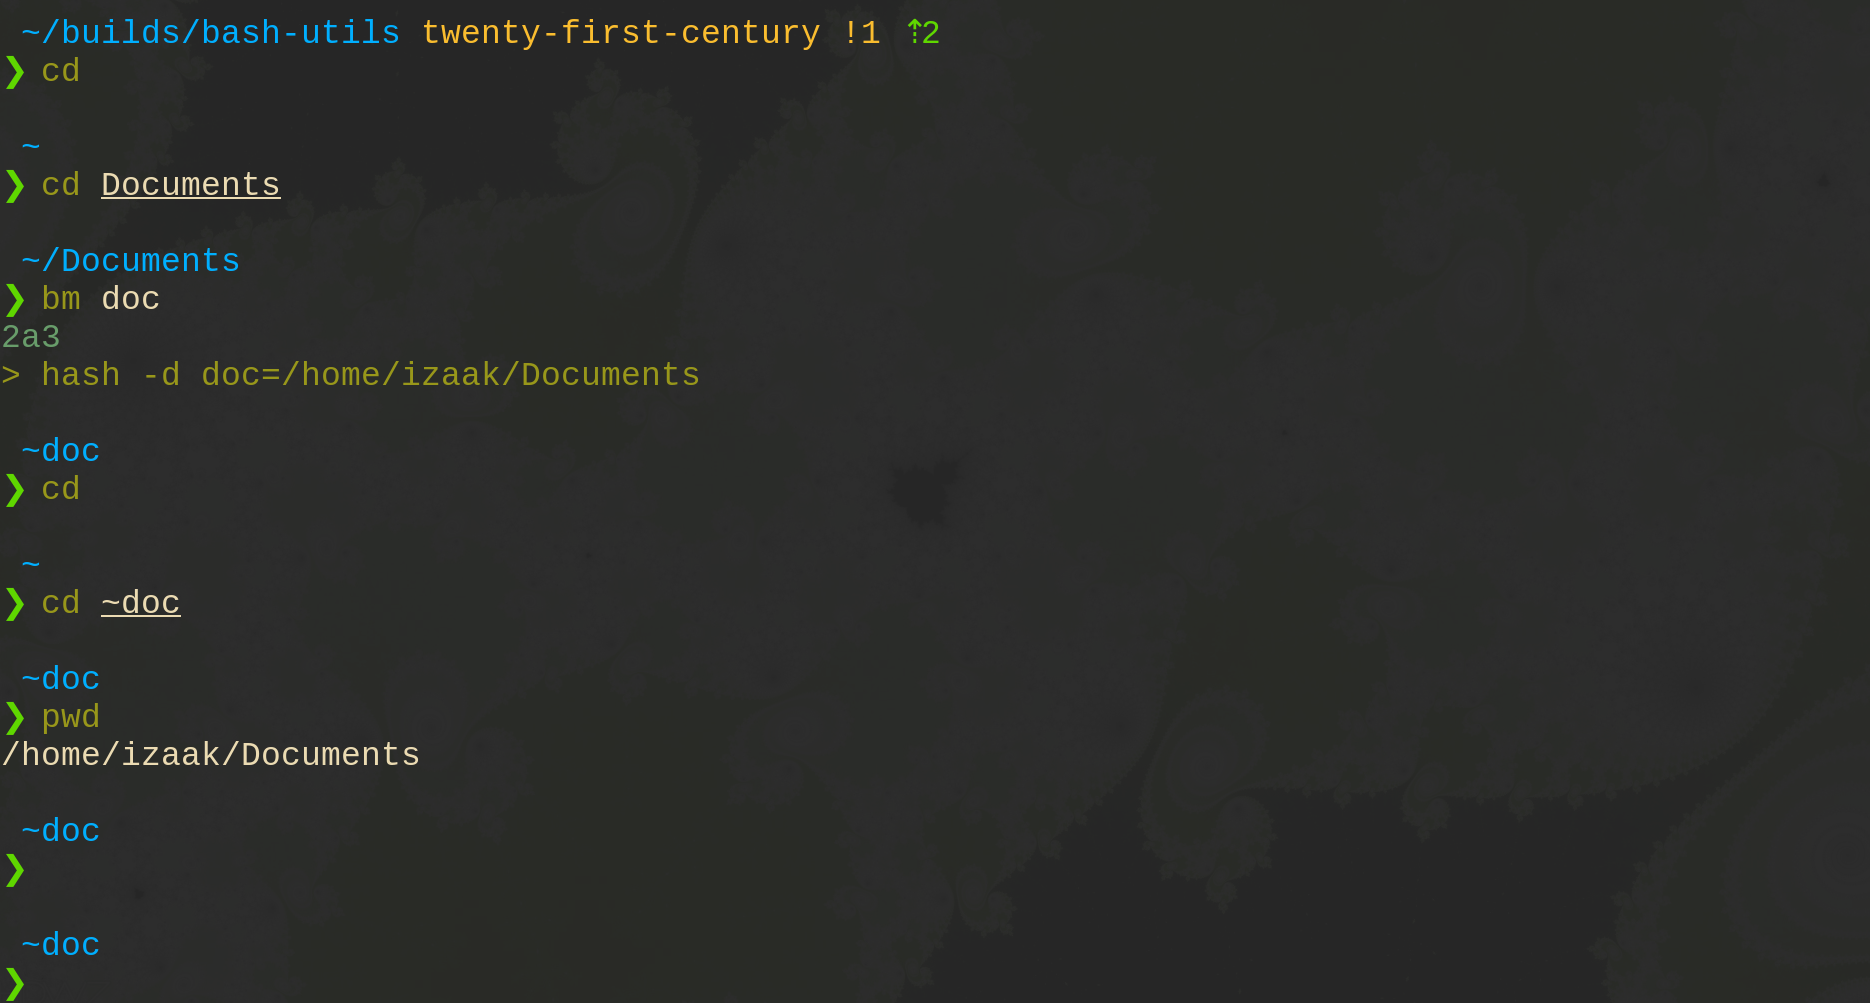
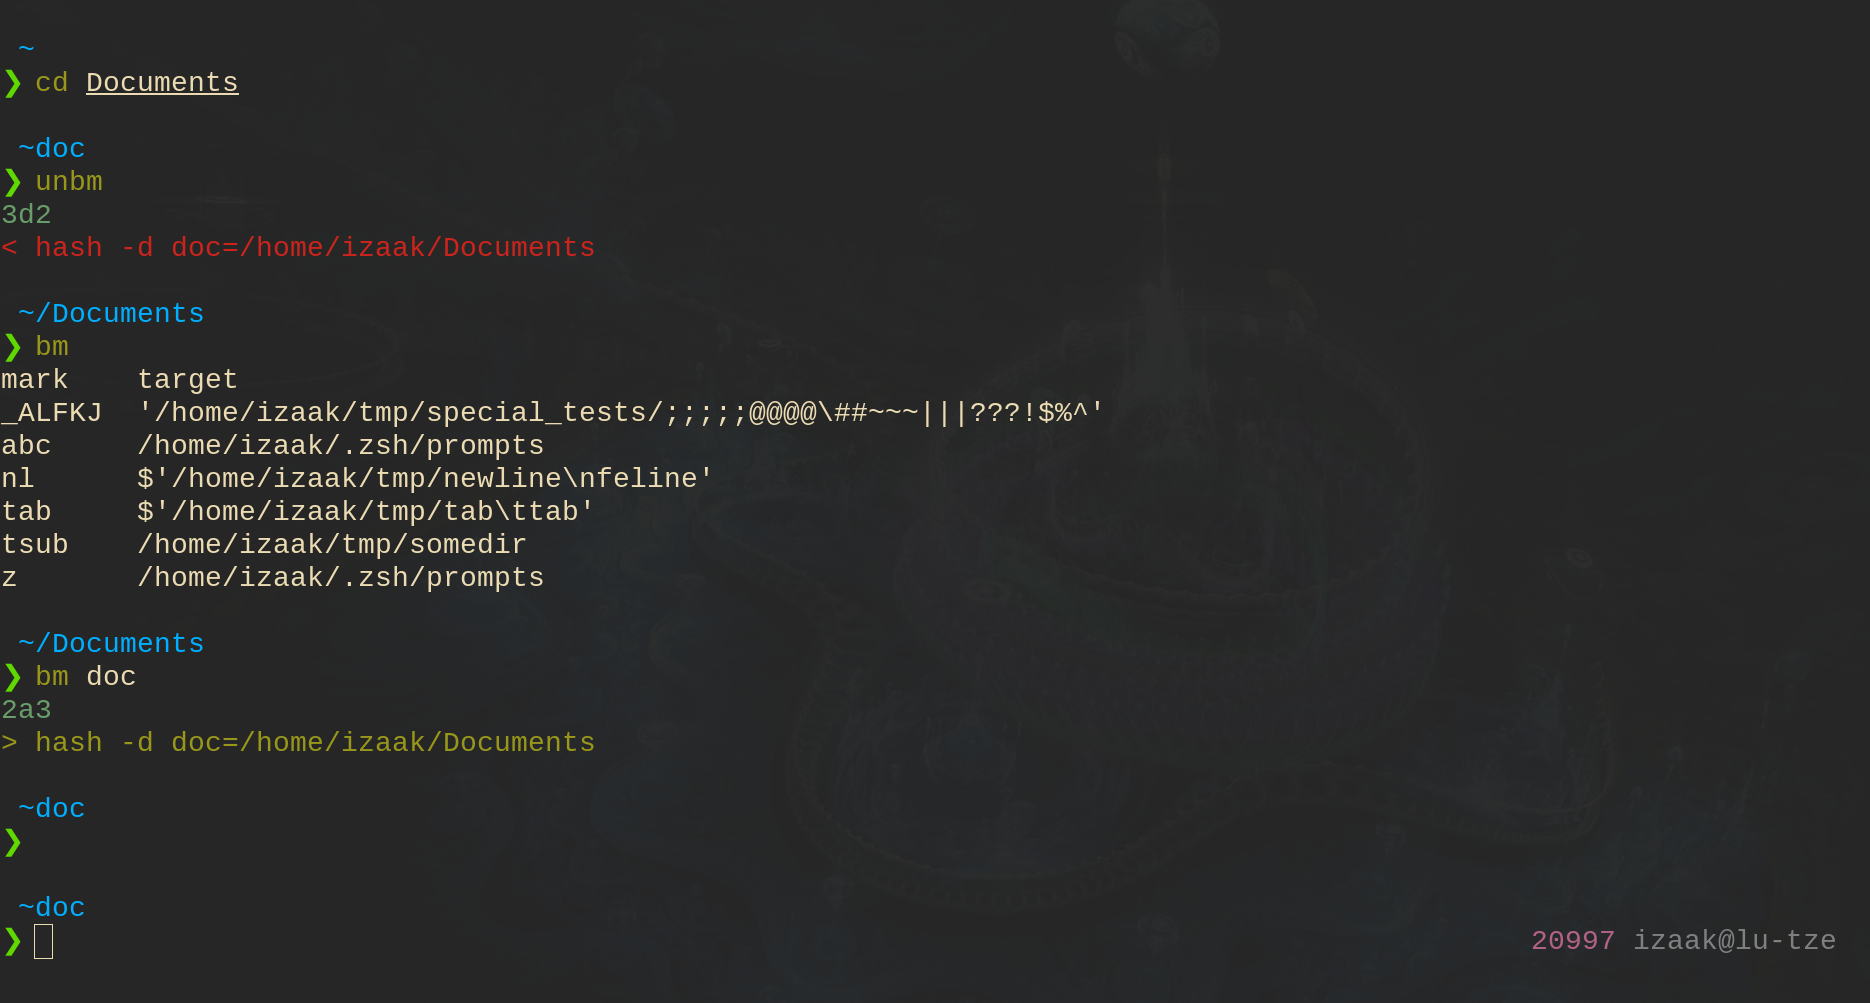
Add demo shell for zapparix

diff --git a/README.md b/README.md
@@ -89,7 +89,12 @@ two-line zsh prompt):
      ~doc
     ❯
 
+Here is a screenshot with colours, and a sample bookmark listing
+
 ![screenshot](https://github.com/goedel-gang/bash-utils/blob/twenty-first-century/zapparix_screenshot.png)
+
+There is a similar demo shell in `zdemo/demo_zsh`, which is about three lines of
+config setting up a prompt and sourcing zapparix.
 
 See the source of `apparix.zsh` for maybe some more information.
 
